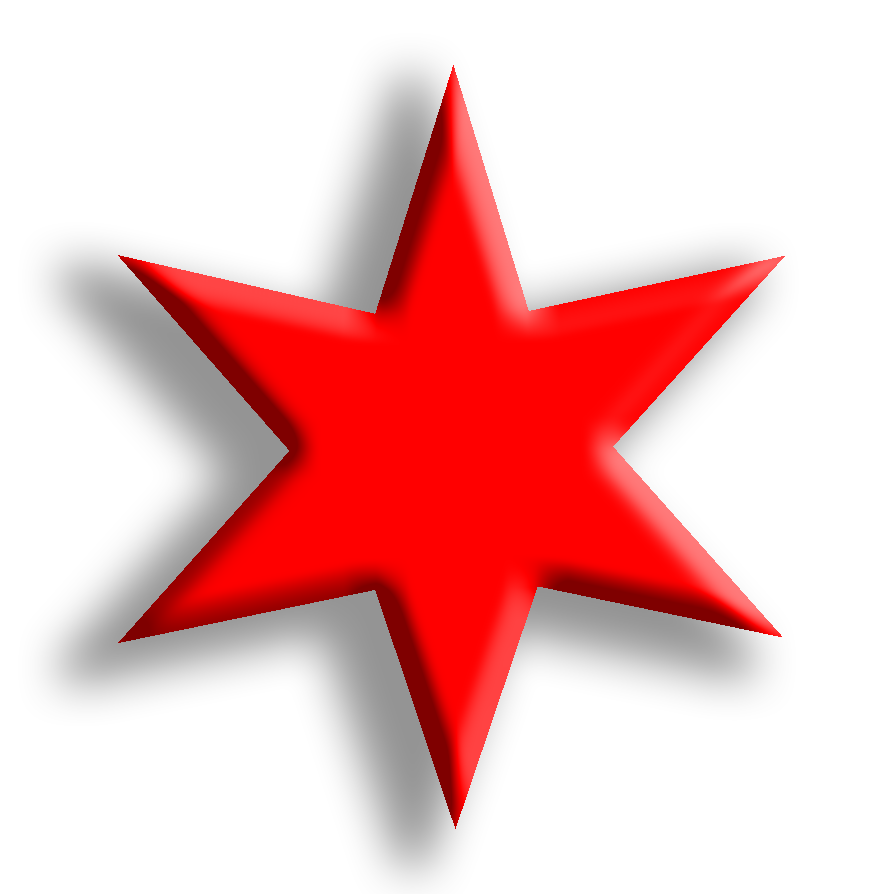
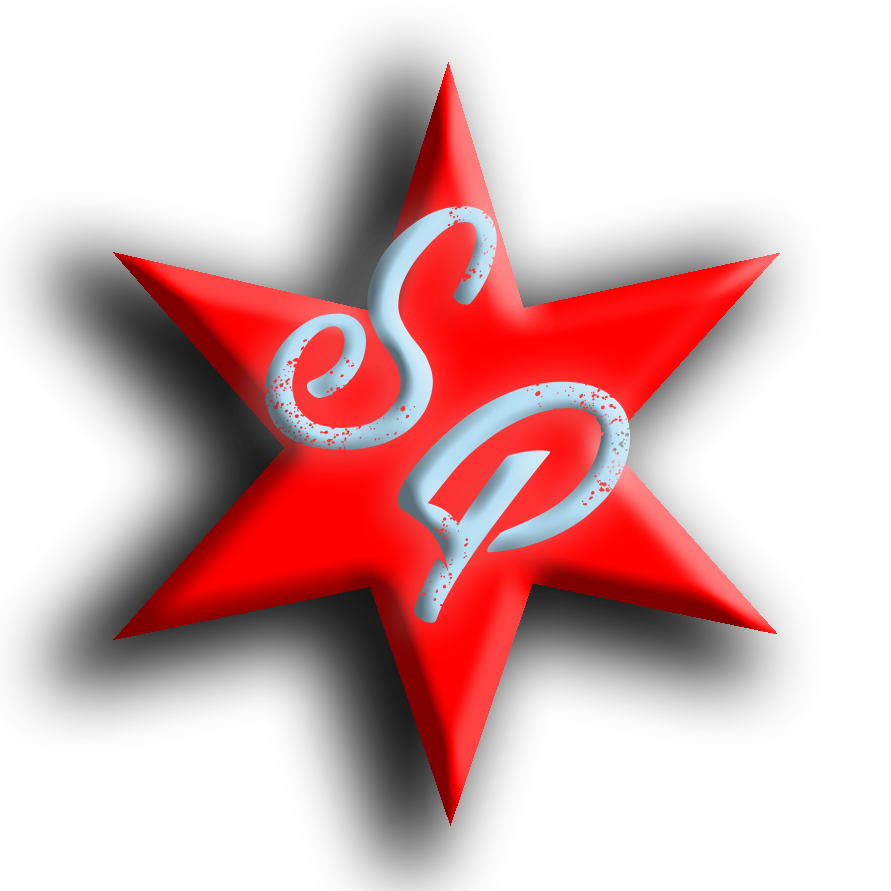
updates

diff --git a/www/js/map_init.js b/www/js/map_init.js
@@ -1,6 +1,5 @@
 var map;
-function initMap(userLocation) {
-    console.log()
+function initMap(userLocation, userDate, userTime) {
     var latLng = {lat: userLocation.lat, lng: userLocation.lng};
     var starIcon = "/ChicagoResSafetyPark/img/small_star.png";
     map = new google.maps.Map(document.getElementById('map'), {
@@ -16,8 +15,6 @@ function initMap(userLocation) {
     });
     var markers = [];
     
-    console.log(selections.length);
-    
     for (var i = 0; i < selections.length; i++){
         var latLng = new google.maps.LatLng(selections[i].latitude,selections[i].longitude);
 
@@ -26,37 +23,45 @@ function initMap(userLocation) {
     }
     
     var options = {
-            minClusterSize: 1,
-            imagePath: '/ChicagoResSafetyPark/img/m'
+        minClusterSize: 1,
+        imagePath: '/ChicagoResSafetyPark/img/m'
     };
 
     var markerCluster = new MarkerClusterer(map, markers,options);
     
-    var apiCustomUrl = "https://cors.io/?https://mellodi.pythonanywhere.com/bucketIdList";
+    var apiCustomUrl = "https://cors.io/?https://mellodi.pythonanywhere.com/setBucket";
     var apiRequest = new XMLHttpRequest();
-    
     //apiRequest.open('GET', apiCustomUrl, true);
-    //apiRequest.send();
+    //apiRequest.setRequestHeader('Content-Type', 'application/json; charset=UTF-8');
+    
+    var obj = { "lat": userLocation.lat, "lng": userLocation.lng, "date": userDate, "time": userTime};
+    
+    var newJson = JSON.stringify(obj);
+    
+    console.log(newJson);
+    
+    //apiRequest.send(newJson);
+    
+    
+    
+    //$.post(apiCustomUrl, newJson);
+    
+   /* console.log(newJson);
 
-    $.get(apiCustomUrl, function(data){
+    $.post(apiCustomUrl, function(data, ){
+        console.log(userLocation, userDate, userTime);
         
     }).done(function(data) {
         console.log(data);
-    });
+    });*/
     
-    
-    
-    /*//call the sweepStreet.py
     $.ajax({
-        type: "POST",
-        url: "/test",
-        data: { param: " "},
-        dataType: "text"
-        }).done(function( o ) {
-            
-            alert("OK");
-    });
-
-    console.log()
-   */
+        url: apiCustomUrl,
+        type: 'post',
+        data: newJson,
+        headers: {
+            'Content-type': 'application/json',
+            'Accept': 'text/plain'
+        }
+    })
 }

diff --git a/www/js/lat_lng.js b/www/js/lat_lng.js
@@ -1,6 +1,6 @@
 //https://maps.googleapis.com/maps/api/geocode/json?address=1600+Amphitheatre+Parkway,+Mountain+View,+CA&key=AIzaSyBI3hkjcGqQFxbHBjyoMGN5AOGwkh_SO30
 
-function getLatLng(inputText){
+function getLatLng(inputText, userDate, userTime){
     var position = globePosition;
     inputText = inputText.split(' ').join('+');
 
@@ -11,7 +11,7 @@ function getLatLng(inputText){
     }).done(function(data) {
         console.log(data.results[0].geometry.location);
         position = data.results[0].geometry.location;
-        initMap(position);
+        initMap(position, userDate, userTime);
   });
     
     

diff --git a/www/index.html b/www/index.html
@@ -18,17 +18,14 @@
 
     <body onload="geolocate()">
         
-        <header>
-        
-            
-        </header>
-        
-    
-        
         <div id="textHeaders">
-            <h1>Chicago Residential Parking</h1>
-            <h2>Saftey and Street Cleaning</h2>
+            <img src="ChicagoResSafetyPark/img/chicago_star.png" alt="Logo" width="30%"/>
+
+            <h1>Sweet Spots</h1>
+            <h2>Chicago Residential Parking</h2>
+            <h3>Web Application</h3>
         </div>
+
 
         
         

diff --git a/www/js/grabMap.js b/www/js/grabMap.js
@@ -18,9 +18,9 @@ function onReady() {
     
     function runLocation() {
         if (inputTxt.value) {
-            userLocation = getLatLng(inputTxt.value);
+            userLocation = getLatLng(inputTxt.value, inputDate.value, intputTime.value);
         } else {
-            initMap(globePosition);
+            initMap(globePosition, inputDate.value, intputTime.value);
         }
     
     }

diff --git a/www/css/map.css b/www/css/map.css
@@ -12,13 +12,15 @@ input{
     font-family: 'Josefin Sans', sans-serif;
     margin: 5px;
 }
+#textHeaders{
+    padding: 15px;
+    align-content: center;
+    text-align: center;
+}
 #autocomplete {
     width: 90%;
     padding: 5px;
     align-content: center;
-}
-.text_headers {
-    width: 90%;
 }
 #txt_date,
 #txt_time {
